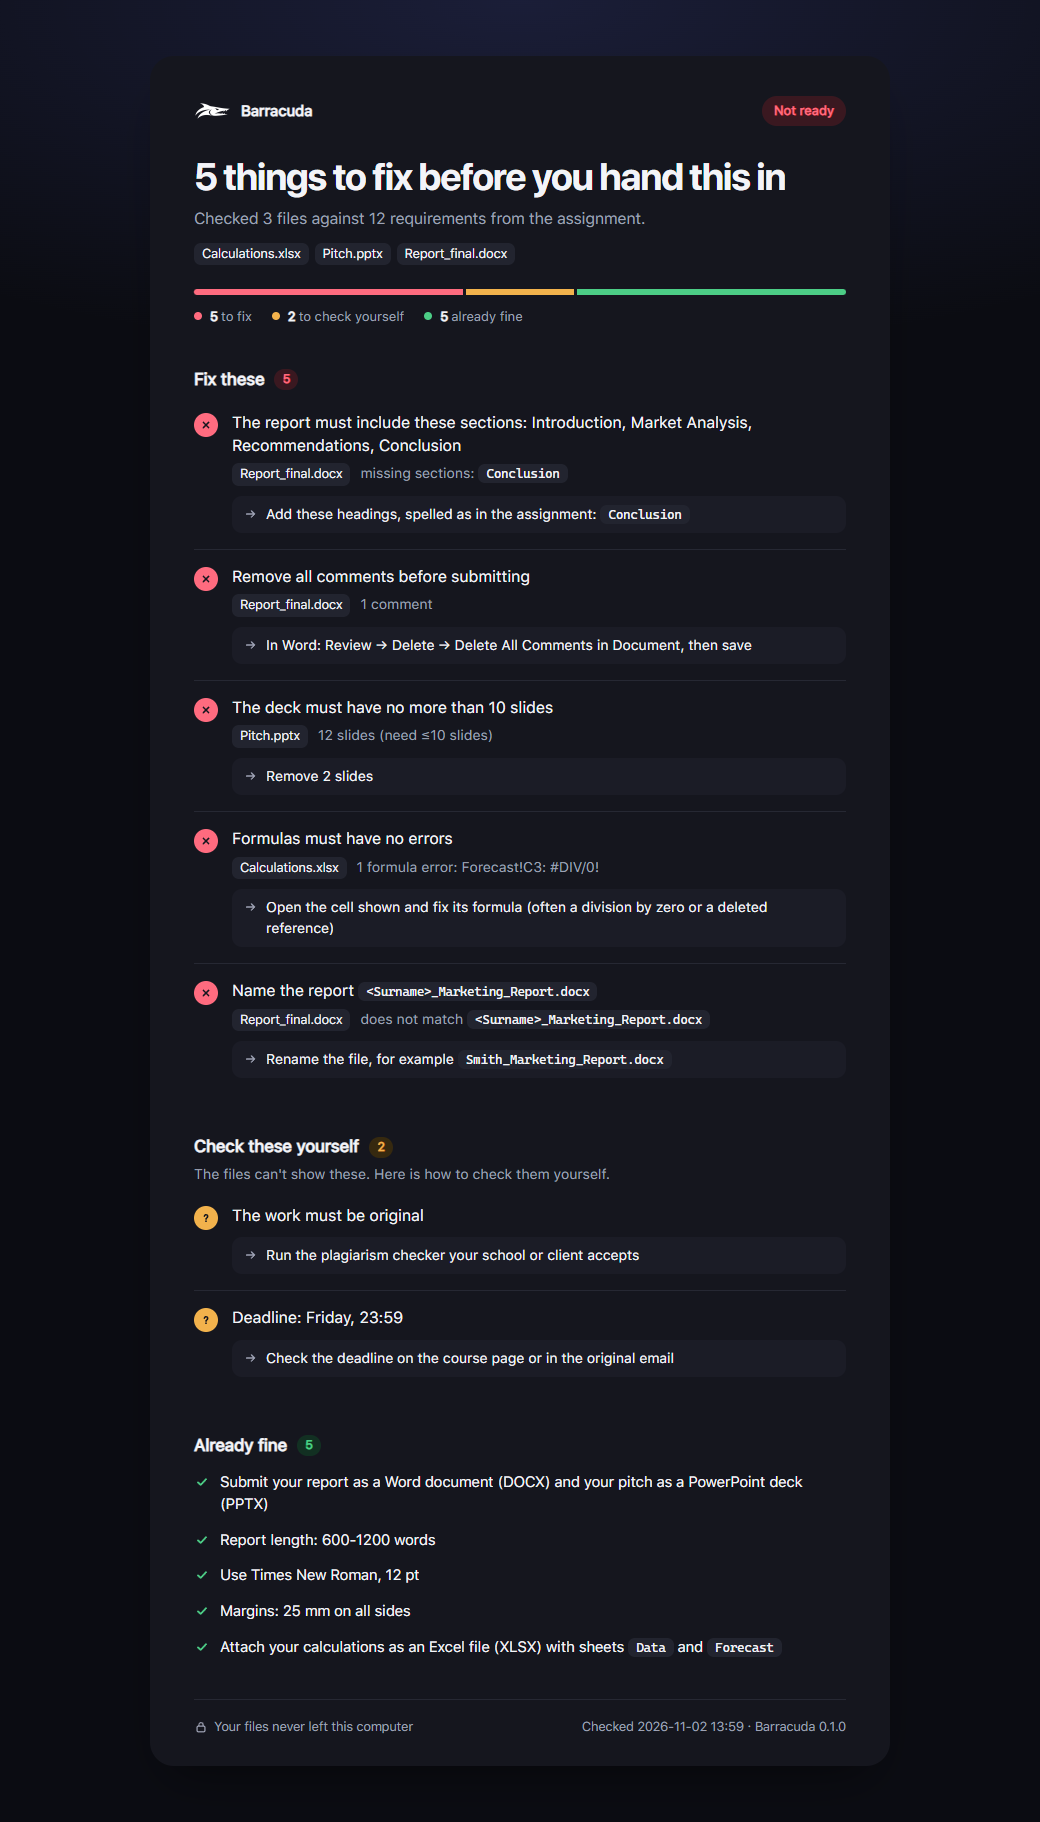
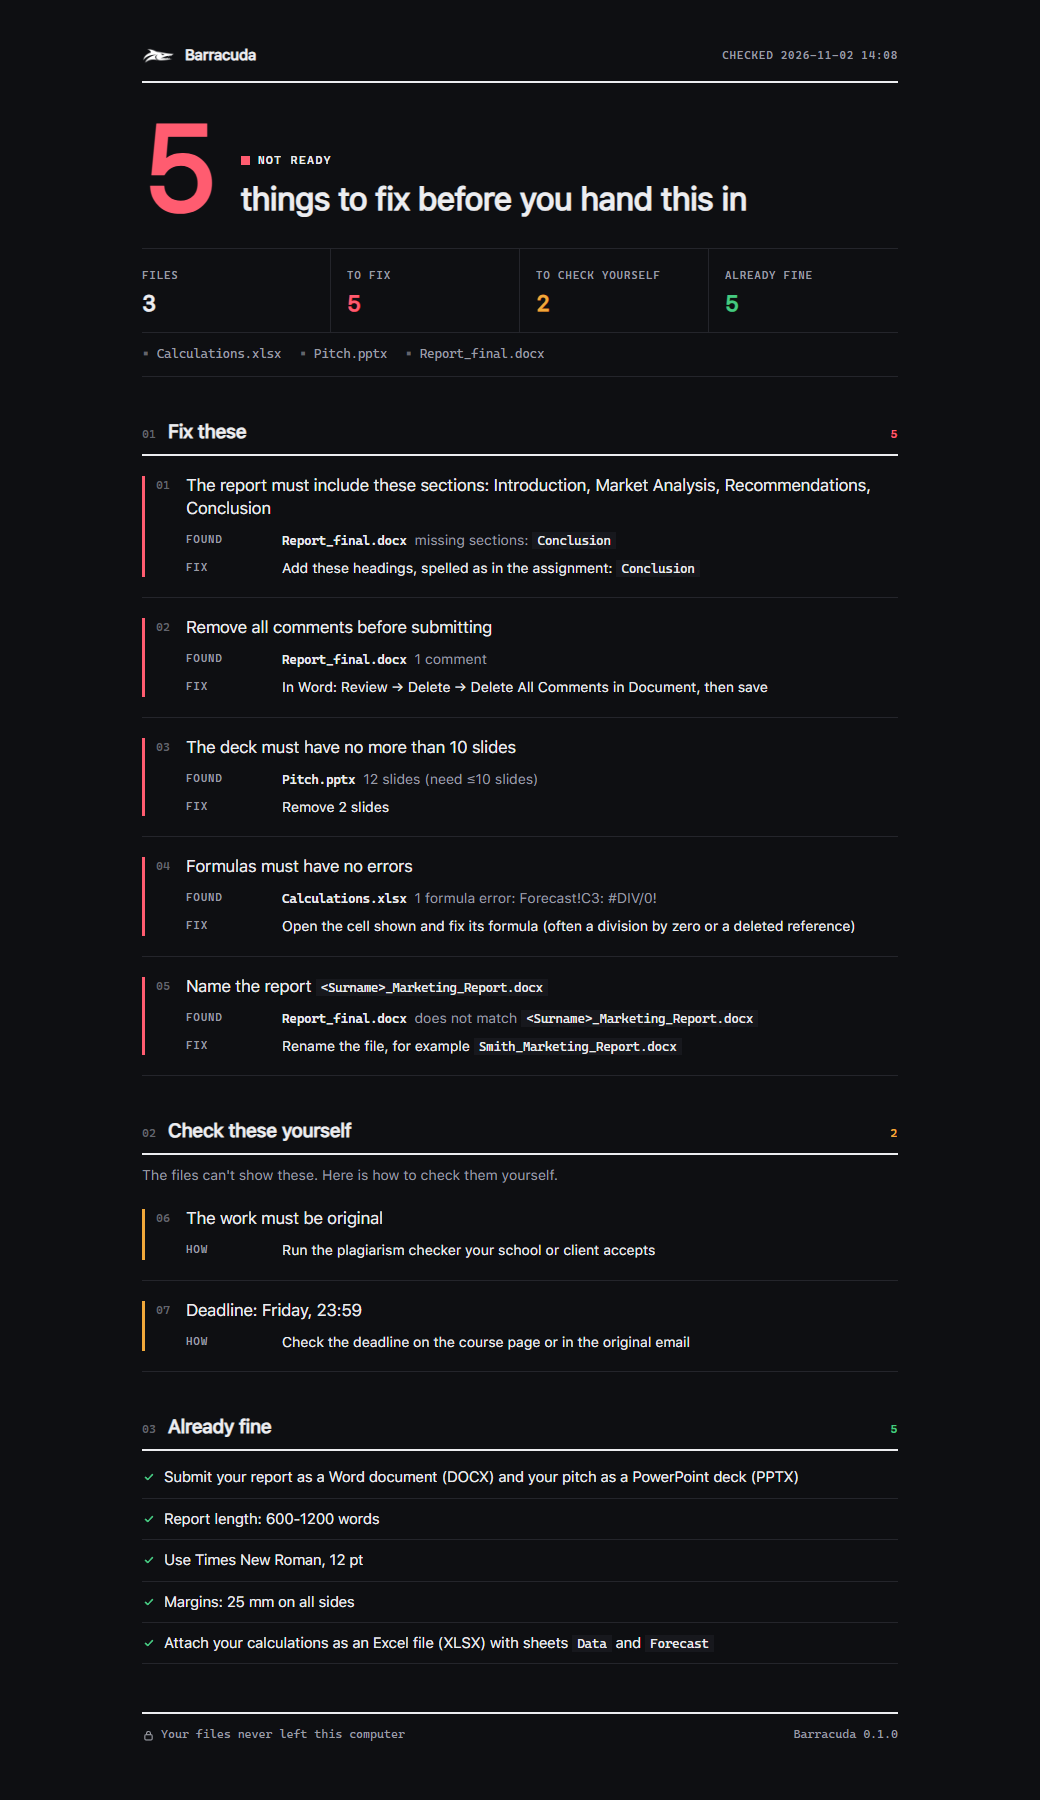
feat: redesign HTML report as an inspection sheet

diff --git a/scripts/report.py b/scripts/report.py
@@ -33,7 +33,9 @@ LABELS = {
            "s_fail": "Fix these", "s_manual": "Check these yourself", "s_pass": "Already fine",
            "private": "Your files never left this computer",
            "manual_note": "The files can't show these. Here is how to check them yourself.",
-           "manual_none": "Check this against the assignment yourself", "checked": "Checked"},
+           "manual_none": "Check this against the assignment yourself", "checked": "Checked",
+           "h_fail_rest": "thing to fix before you hand this in|things to fix before you hand this in",
+           "lb_found": "Found", "lb_fix": "Fix", "lb_how": "How", "m_files": "Files"},
     "ru": {"fail": "НЕ ГОТОВО", "incomplete": "ПРОВЕРЬТЕ ВРУЧНУЮ", "pass": "ГОТОВО",
            "summary": "не выполнено: {f} · выполнено: {p} · нужна ручная проверка: {u}",
            "not_met": "Не выполнено", "manual": "Нужна ручная проверка (по файлам этого не определить)",
@@ -50,7 +52,9 @@ LABELS = {
            "s_fail": "Исправьте", "s_manual": "Проверьте сами", "s_pass": "Уже в порядке",
            "private": "Файлы не покидали этот компьютер",
            "manual_note": "По файлам этого не определить. Вот как проверить самому.",
-           "manual_none": "Сверьте это с заданием самостоятельно", "checked": "Проверено"},
+           "manual_none": "Сверьте это с заданием самостоятельно", "checked": "Проверено",
+           "h_fail_rest": "нужно исправить перед сдачей|нужно исправить перед сдачей",
+           "lb_found": "Найдено", "lb_fix": "Исправить", "lb_how": "Как", "m_files": "Файлы"},
     "uk": {"fail": "НЕ ГОТОВО", "incomplete": "ПЕРЕВІРТЕ ВРУЧНУ", "pass": "ГОТОВО",
            "summary": "не виконано: {f} · виконано: {p} · потрібна ручна перевірка: {u}",
            "not_met": "Не виконано", "manual": "Потрібна ручна перевірка (за файлами цього не визначити)",
@@ -67,7 +71,9 @@ LABELS = {
            "s_fail": "Виправте", "s_manual": "Перевірте самі", "s_pass": "Уже гаразд",
            "private": "Файли не залишали цей комп'ютер",
            "manual_note": "За файлами цього не визначити. Ось як перевірити самому.",
-           "manual_none": "Звірте це із завданням самостійно", "checked": "Перевірено"},
+           "manual_none": "Звірте це із завданням самостійно", "checked": "Перевірено",
+           "h_fail_rest": "треба виправити перед здачею|треба виправити перед здачею",
+           "lb_found": "Знайдено", "lb_fix": "Виправити", "lb_how": "Як", "m_files": "Файли"},
 }
 
 
@@ -176,63 +182,65 @@ def _logo():
 
 
 CSS = """
-:root{--bg:#f5f6f9;--card:#fff;--ink:#0a0b14;--sub:#62667a;--hair:#ebecf1;--chip:#f1f2f6;--fixbg:#f7f8fb;
---red:#d70022;--red-soft:#fdecee;--amber:#b06900;--amber-soft:#fdf3e1;--green:#12864a;--green-soft:#e7f5ed;
---on:#fff;--brand:#0003fd;--glow:rgba(0,3,253,.10);
---shadow:0 1px 2px rgba(10,11,20,.04),0 24px 48px -24px rgba(10,11,20,.18);color-scheme:light dark}
-@media (prefers-color-scheme:dark){:root{--bg:#0b0c12;--card:#15161e;--ink:#f3f4f8;--sub:#9ea2b4;--hair:#262833;
---chip:#22242f;--fixbg:#1b1c26;--red:#ff6b7f;--red-soft:#3a1820;--amber:#f2b24c;--amber-soft:#36290f;--green:#4ccd86;
---green-soft:#123022;--on:#15161e;--glow:rgba(108,123,255,.16);--shadow:0 24px 48px -24px rgba(0,0,0,.6)}}
+:root{--paper:#fbfbf9;--ink:#101114;--sub:#6a6c73;--faint:#a3a5ab;--rule:#e4e4df;--rule2:#101114;--tint:#f2f2ee;
+--red:#d1001f;--amber:#a86400;--green:#16824a;--brand:#0003fd;color-scheme:light dark;
+--mono:ui-monospace,"SF Mono","Cascadia Mono","JetBrains Mono",Menlo,Consolas,monospace;
+--sans:-apple-system,BlinkMacSystemFont,"SF Pro Text","Segoe UI Variable Text","Segoe UI",Inter,Roboto,"Helvetica Neue",Arial,sans-serif}
+@media (prefers-color-scheme:dark){:root{--paper:#0e0f12;--ink:#ecedf0;--sub:#9a9ca4;--faint:#62646c;--rule:#24252b;
+--rule2:#ecedf0;--tint:#17181d;--red:#ff5c70;--amber:#f0a83a;--green:#46c981;--brand:#7b86ff}}
 *{box-sizing:border-box;margin:0;padding:0}
-body{background:radial-gradient(90% 360px at 50% 0,var(--glow),transparent) no-repeat,var(--bg);color:var(--ink);
-font:15px/1.5 -apple-system,BlinkMacSystemFont,"SF Pro Text","Segoe UI Variable Text","Segoe UI",Inter,Roboto,
-"Helvetica Neue",Arial,sans-serif;-webkit-font-smoothing:antialiased;min-height:100vh}
-main{max-width:780px;margin:56px auto;padding:0 20px}
-.card{background:var(--card);border-radius:24px;padding:40px 44px 30px;box-shadow:var(--shadow)}
-.top{display:flex;align-items:center;justify-content:space-between;gap:12px}
-.brand{display:flex;align-items:center;gap:10px;font-weight:600;letter-spacing:-.01em}
-.logo{height:18px;width:auto}
+body{background:var(--paper);color:var(--ink);font:15px/1.55 var(--sans);-webkit-font-smoothing:antialiased}
+main{max-width:820px;margin:0 auto;padding:44px 32px 56px}
+.lbl{font:500 11px/1.4 var(--mono);letter-spacing:.08em;text-transform:uppercase;color:var(--sub)}
+.top{display:flex;justify-content:space-between;align-items:center;gap:16px;padding-bottom:14px;border-bottom:2px solid var(--rule2)}
+.brand{display:flex;align-items:center;gap:10px;font-weight:650;letter-spacing:-.01em}
+.logo{height:16px;width:auto}
 @media (prefers-color-scheme:dark){.logo{filter:brightness(0) invert(1)}}
-.pill{font-size:13px;font-weight:600;padding:5px 12px;border-radius:99px;white-space:nowrap}
-.pill.fail{color:var(--red);background:var(--red-soft)}.pill.incomplete{color:var(--amber);background:var(--amber-soft)}
-.pill.pass{color:var(--green);background:var(--green-soft)}
-h1{font:600 clamp(28px,4.4vw,38px)/1.1 -apple-system,BlinkMacSystemFont,"SF Pro Display","Segoe UI Variable Display",
-"Segoe UI",Inter,Roboto,sans-serif;letter-spacing:-.026em;margin-top:30px}
-.sub{color:var(--sub);margin-top:10px;font-size:15.5px}
-.files{display:flex;flex-wrap:wrap;gap:6px;margin-top:12px;list-style:none}
-.file,.q{font-size:12.5px;font-weight:500;color:var(--ink);background:var(--chip);padding:2px 8px;border-radius:7px;
-overflow-wrap:anywhere}
-.q{font-family:ui-monospace,"SF Mono","Cascadia Mono",Consolas,monospace;font-size:12.5px;font-weight:400}
-.bar{display:flex;gap:3px;height:6px;margin-top:24px;border-radius:99px;overflow:hidden}
-.bar span{display:block}.bar .f{background:var(--red)}.bar .u{background:var(--amber)}.bar .p{background:var(--green)}
-.legend{display:flex;flex-wrap:wrap;gap:6px 20px;margin-top:12px;font-size:13px;color:var(--sub)}
-.legend b{color:var(--ink);font-weight:600;margin-right:3px}
-.legend i{display:inline-block;width:8px;height:8px;border-radius:50%;margin-right:8px;vertical-align:1px}
-h2{display:flex;align-items:center;gap:10px;font-size:17px;font-weight:600;letter-spacing:-.012em;margin:40px 0 4px}
-h2 .n{font-size:12.5px;font-weight:600;min-width:24px;text-align:center;padding:1px 8px;border-radius:99px}
-h2.fail .n{color:var(--red);background:var(--red-soft)}h2.unverified .n{color:var(--amber);background:var(--amber-soft)}
-h2.pass .n{color:var(--green);background:var(--green-soft)}
-.note{color:var(--sub);font-size:14px;margin-bottom:4px}
-.row{display:flex;gap:14px;padding:16px 0;border-top:1px solid var(--hair)}
-h2+.row,.note+.row{border-top:0}
-.ic{flex:none;width:24px;height:24px;border-radius:50%;display:grid;place-items:center;margin-top:1px;color:var(--on)}
-.ic svg{width:14px;height:14px}
-.fail .ic{background:var(--red)}.unverified .ic{background:var(--amber)}
-.body{min-width:0;flex:1}
-.req{font-size:16px;font-weight:500;letter-spacing:-.008em;line-height:1.4}
-.ev{list-style:none;margin-top:6px;display:grid;gap:5px;font-size:14px;color:var(--sub)}
-.ev li{display:flex;flex-wrap:wrap;gap:4px 10px;align-items:baseline}
-.fix{margin-top:10px;display:grid;gap:6px}
-.fix p{display:flex;gap:8px;align-items:flex-start;font-size:14px;background:var(--fixbg);border-radius:10px;padding:8px 12px}
-.fix svg{flex:none;width:14px;height:14px;margin-top:3px;color:var(--sub)}
-.ok{list-style:none;margin-top:6px}
-.ok li{display:flex;gap:10px;align-items:flex-start;padding:7px 0;font-size:14.5px}
-.ok svg{flex:none;width:16px;height:16px;margin-top:3px;color:var(--green)}
-.foot{display:flex;flex-wrap:wrap;justify-content:space-between;gap:8px;margin-top:34px;padding-top:18px;
-border-top:1px solid var(--hair);font-size:12.5px;color:var(--sub)}
-.foot span{display:inline-flex;align-items:center;gap:6px}.foot svg{width:14px;height:14px}
-@media (max-width:560px){main{margin:20px auto}.card{padding:28px 20px 22px;border-radius:20px}}
-@media print{body{background:#fff}main{margin:0;max-width:none}.card{box-shadow:none;border:0;padding:0}}
+.verdict{display:grid;grid-template-columns:auto 1fr;gap:4px 28px;align-items:end;padding:36px 0 30px;border-bottom:1px solid var(--rule)}
+.big{font:600 clamp(72px,14vw,120px)/.82 var(--sans);letter-spacing:-.06em;font-variant-numeric:tabular-nums}
+.verdict.fail .big{color:var(--red)}.verdict.incomplete .big{color:var(--amber)}.verdict.pass .big{color:var(--green)}
+.status{display:inline-flex;align-items:center;gap:8px;font:600 12px/1 var(--mono);letter-spacing:.1em;text-transform:uppercase}
+.status i{width:9px;height:9px;display:inline-block}
+.fail .status i{background:var(--red)}.incomplete .status i{background:var(--amber)}.pass .status i{background:var(--green)}
+h1{font:600 clamp(24px,3.6vw,32px)/1.12 var(--sans);letter-spacing:-.022em;margin-top:10px;max-width:520px}
+.meta{display:grid;grid-template-columns:repeat(4,1fr);border-bottom:1px solid var(--rule)}
+.meta div{padding:14px 0 16px;border-right:1px solid var(--rule);padding-left:16px}
+.meta div:first-child{padding-left:0}.meta div:last-child{border-right:0}
+.meta b{display:block;font:600 22px/1.2 var(--sans);letter-spacing:-.02em;margin-top:4px;font-variant-numeric:tabular-nums}
+.meta .f b{color:var(--red)}.meta .u b{color:var(--amber)}.meta .p b{color:var(--green)}
+.files{display:flex;flex-wrap:wrap;gap:6px 18px;padding:12px 0;border-bottom:1px solid var(--rule);list-style:none;
+font:12.5px/1.5 var(--mono);color:var(--sub)}
+.files li::before{content:"▪ ";color:var(--faint)}
+section{margin-top:44px}
+h2{display:flex;align-items:baseline;gap:12px;padding-bottom:10px;border-bottom:2px solid var(--rule2)}
+h2 .no{font:500 12px var(--mono);color:var(--faint)}
+h2 .t{font:650 19px/1.2 var(--sans);letter-spacing:-.015em}
+h2 .c{margin-left:auto;font:600 12px var(--mono);letter-spacing:.06em}
+.fail h2 .c{color:var(--red)}.unverified h2 .c{color:var(--amber)}.pass h2 .c{color:var(--green)}
+.note{color:var(--sub);font-size:14px;padding:10px 0 2px}
+.item{display:grid;grid-template-columns:44px 1fr;padding:18px 0;border-bottom:1px solid var(--rule);position:relative}
+.item::before{content:"";position:absolute;left:0;top:20px;width:3px;height:calc(100% - 40px);min-height:18px}
+.fail .item::before{background:var(--red)}.unverified .item::before{background:var(--amber)}
+.num{font:500 12px/1.9 var(--mono);color:var(--faint);padding-left:14px}
+.req{font-size:16.5px;font-weight:550;letter-spacing:-.01em;line-height:1.4}
+.kv{display:grid;grid-template-columns:84px 1fr;gap:6px 12px;margin-top:10px;font-size:14px}
+.kv dt{padding-top:2px}
+.kv dd{color:var(--sub)}.kv dd.fix{color:var(--ink);font-weight:500}
+.kv dd p+p{margin-top:3px}
+.file{font:500 12.5px var(--mono);color:var(--ink);margin-right:8px}
+.q{font:12.5px var(--mono);color:var(--ink);background:var(--tint);padding:1px 5px;overflow-wrap:anywhere}
+.ok{list-style:none;padding-top:6px}
+.ok li{break-inside:avoid;display:grid;grid-template-columns:22px 1fr;padding:9px 0;border-bottom:1px solid var(--rule);font-size:14.5px}
+.ok svg{width:14px;height:14px;margin-top:4px;color:var(--green)}
+.foot{display:flex;flex-wrap:wrap;justify-content:space-between;gap:8px;margin-top:48px;padding-top:12px;
+border-top:2px solid var(--rule2);font:11.5px/1.5 var(--mono);color:var(--sub);letter-spacing:.02em}
+.foot span{display:inline-flex;align-items:center;gap:6px}.foot svg{width:13px;height:13px}
+@media (max-width:620px){main{padding:24px 18px 40px}.verdict{grid-template-columns:1fr;gap:12px}
+.meta{grid-template-columns:repeat(2,1fr)}.meta div:nth-child(2){border-right:0}
+.meta div:nth-child(3){padding-left:0;border-top:1px solid var(--rule)}.meta div:nth-child(4){border-top:1px solid var(--rule)}
+.item{grid-template-columns:34px 1fr}.num{padding-left:10px}
+.kv{grid-template-columns:1fr;gap:2px}.kv dd{margin-bottom:8px}}
+@media print{main{padding:0;max-width:none}section{break-inside:auto}.item{break-inside:avoid}}
 """
 
 ICONS["arrow"] = ('<path d="M3 8h9M8.5 4.5L12 8l-3.5 3.5" stroke="currentColor" stroke-width="1.6" '
@@ -256,8 +264,8 @@ def _evidence(text):
     m = FILE_RE.match(text)
     if m:
         name = m.group(1).split("/")[-1]
-        return f'<li><span class="file">{html.escape(name)}</span><span>{_rich(m.group(2))}</span></li>'
-    return f"<li><span>{_rich(text[:1].upper() + text[1:])}</span></li>"
+        return f'<p><span class="file">{html.escape(name)}</span><span>{_rich(m.group(2))}</span></p>'
+    return f"<p><span>{_rich(text[:1].upper() + text[1:])}</span></p>"
 
 
 def to_html(report, lang="en", now=None):
@@ -270,51 +278,61 @@ def to_html(report, lang="en", now=None):
     if not items:
         headline = L["h_none"]
     elif verdict == "fail":
-        headline = plural(L["h_fail"], c["fail"]).format(n=c["fail"])
+        headline = plural(L["h_fail_rest"], c["fail"])
     else:
         headline = L["h_" + verdict]
-    sub = plural(L["sub"], n_files).format(f=n_files, r=len(items))
+    big = c["fail"] if verdict == "fail" else c["unverified"] if verdict == "incomplete" else c["pass"]
     stamp = (now or datetime.now()).strftime("%Y-%m-%d %H:%M")
+    counter = {"n": 0}
 
     def rows(status):
         out = []
         for i in (x for x in items if x["status"] == status):
+            counter["n"] += 1
             evidence = [e for e in i["evidence"] if status != "unverified" or e != DEFAULT_REASON]
-            ev = f'<ul class="ev">{"".join(_evidence(e) for e in evidence)}</ul>' if evidence else ""
             fixes = i["fixes"] or ([L["manual_none"]] if status == "unverified" else [])
-            fix = "".join(f"<p>{_icon('arrow')}<span>{_rich(h)}</span></p>" for h in fixes)
-            out.append(f'<div class="row {status}"><div class="ic">{_icon(status)}</div><div class="body">'
-                       f'<p class="req">{_rich(i["source"])}</p>{ev}'
-                       f'{f"<div class=fix>{fix}</div>" if fix else ""}</div></div>')
+            kv = ""
+            if evidence:
+                kv += f'<dt class="lbl">{L["lb_found"]}</dt><dd>{"".join(_evidence(e) for e in evidence)}</dd>'
+            if fixes:
+                key = L["lb_fix"] if status == "fail" else L["lb_how"]
+                kv += f'<dt class="lbl">{key}</dt><dd class="fix">{"".join(f"<p>{_rich(h)}</p>" for h in fixes)}</dd>'
+            dl = f'<dl class="kv">{kv}</dl>' if kv else ""
+            out.append(f'<div class="item"><span class="num">{counter["n"]:02d}</span><div>'
+                       f'<p class="req">{_rich(i["source"])}</p>{dl}</div></div>')
         return "".join(out)
 
-    def head(status, title):
-        return f'<h2 class="{status}">{title}<span class="n">{c[status]}</span></h2>'
+    def head(no, status, title):
+        return (f'<h2><span class="no">{no:02d}</span><span class="t">{title}</span>'
+                f'<span class="c">{c[status]}</span></h2>')
 
-    sections = []
+    sections, no = [], 0
     if c["fail"]:
-        sections.append(head("fail", L["s_fail"]) + rows("fail"))
+        no += 1
+        sections.append(f'<section class="fail">{head(no, "fail", L["s_fail"])}{rows("fail")}</section>')
     if c["unverified"]:
-        sections.append(head("unverified", L["s_manual"]) + f'<p class="note">{L["manual_note"]}</p>' + rows("unverified"))
+        no += 1
+        sections.append(f'<section class="unverified">{head(no, "unverified", L["s_manual"])}'
+                        f'<p class="note">{L["manual_note"]}</p>{rows("unverified")}</section>')
     if c["pass"]:
+        no += 1
         oks = "".join(f'<li>{_icon("pass")}<span>{_rich(i["source"])}</span></li>'
                       for i in items if i["status"] == "pass")
-        sections.append(head("pass", L["s_pass"]) + f'<ul class="ok">{oks}</ul>')
-    bar = "".join(f'<span class="{k}" style="flex:{c[s]}"></span>'
-                  for k, s in (("f", "fail"), ("u", "unverified"), ("p", "pass")) if c[s])
-    legend = "".join(f'<span><i style="background:var(--{col})"></i><b>{c[s]}</b>{L[lab]}</span>'
-                     for s, col, lab in (("fail", "red", "lg_fail"), ("unverified", "amber", "lg_manual"),
-                                         ("pass", "green", "lg_pass")))
-    chips = "".join(f'<li class="file">{html.escape(n.split("/")[-1])}</li>' for n in files)
+        sections.append(f'<section class="pass">{head(no, "pass", L["s_pass"])}<ul class="ok">{oks}</ul></section>')
+    meta = "".join(f'<div class="{k}"><span class="lbl">{L[lab]}</span><b>{v}</b></div>'
+                   for k, lab, v in (("", "m_files", n_files), ("f", "lg_fail", c["fail"]),
+                                     ("u", "lg_manual", c["unverified"]), ("p", "lg_pass", c["pass"])))
+    chips = "".join(f"<li>{html.escape(n.split('/')[-1])}</li>" for n in files)
     return f"""<!doctype html>
 <html lang="{lang}"><head><meta charset="utf-8"><meta name="viewport" content="width=device-width,initial-scale=1">
 <title>Barracuda: {html.escape(L["pill_" + verdict])}</title><style>{CSS}</style></head>
-<body><main><article class="card">
-<header class="top"><div class="brand">{_logo()}Barracuda</div><span class="pill {verdict}">{L["pill_" + verdict]}</span></header>
-<h1>{html.escape(headline)}</h1><p class="sub">{html.escape(sub)}</p>
+<body><main>
+<header class="top"><div class="brand">{_logo()}Barracuda</div><span class="lbl">{L["checked"]} {stamp}</span></header>
+<div class="verdict {verdict}"><div class="big">{big if items else "0"}</div>
+<div><span class="status"><i></i>{L["pill_" + verdict]}</span><h1>{html.escape(headline)}</h1></div></div>
+<div class="meta">{meta}</div>
 {f'<ul class="files" aria-label="{L["files"]}">{chips}</ul>' if chips else ""}
-{f'<div class="bar" role="img" aria-label="{c["fail"]} / {c["unverified"]} / {c["pass"]}">{bar}</div><div class="legend">{legend}</div>' if items else ""}
 {''.join(sections)}
-<footer class="foot"><span>{_icon("lock")}{L["private"]}</span><span>{L["checked"]} {stamp} · Barracuda {VERSION}</span></footer>
-</article></main></body></html>
+<footer class="foot"><span>{_icon("lock")}{L["private"]}</span><span>Barracuda {VERSION}</span></footer>
+</main></body></html>
 """

diff --git a/scripts/hints.py b/scripts/hints.py
@@ -160,9 +160,9 @@ def hint(r, lang="en"):
         example = re.sub(r"<[^>]+>", EXAMPLE_NAME.get(lang, "Smith"), r.get("pattern") or "")
         return H["filename"].format(example=example) if example else None
     if t == "font":
-        return H["font"].format(name=r.get("name", ""))
+        return H["font"].format(name=r["name"]) if r.get("name") else None
     if t == "font_size":
-        return H["font_size"].format(value=f"{r.get('value', 0):g}")
+        return H["font_size"].format(value=f"{r['value']:g}") if isinstance(r.get("value"), (int, float)) else None
     if t == "file_required":
         return H["file_required"].format(target=r.get("target") or "")
     return H.get(t)

diff --git a/tests/test_report.py b/tests/test_report.py
@@ -42,9 +42,9 @@ class Reports(unittest.TestCase):
         md = markdown(REPORT)
         self.assertIn("2 not met · 2 met · 1 need a human check", md)
         page = to_html(REPORT)
-        self.assertIn("2 things to fix", page)
-        self.assertIn("against 5 requirements", page)
-        self.assertIn("Checked 2 files", page)  # files inside archives aren't counted twice
+        self.assertIn('<div class="big">2</div>', page)
+        self.assertIn("things to fix", page)
+        self.assertIn('Files</span><b>2</b>', page)  # files inside archives aren't counted twice
 
     def test_html_escapes_everything(self):
         page = to_html(REPORT)

diff --git a/CHANGELOG.md b/CHANGELOG.md
@@ -4,7 +4,7 @@
 
 - Every problem in the report now says how to fix it ("Remove 2 slides", "Rename the file, for example Smith_Marketing_Report.docx", the exact Word menu), in English, Ukrainian and Russian.
 - Items that need a human check say how to check them (deadline, plagiarism, sources, citation style, spacing).
-- HTML report: lists the checked files, shows the date and time of the check, one quote style, clearer section headings with counts, better contrast in dark mode, no hard-edged header.
+- HTML report redesigned as an inspection sheet: a big count up front, numbered items with Found / Fix lines, the checked files, the date and time of the check, one quote style. Works in light and dark mode, on a phone and in print.
 
 ## 0.1.0 (2 November 2026)
 
